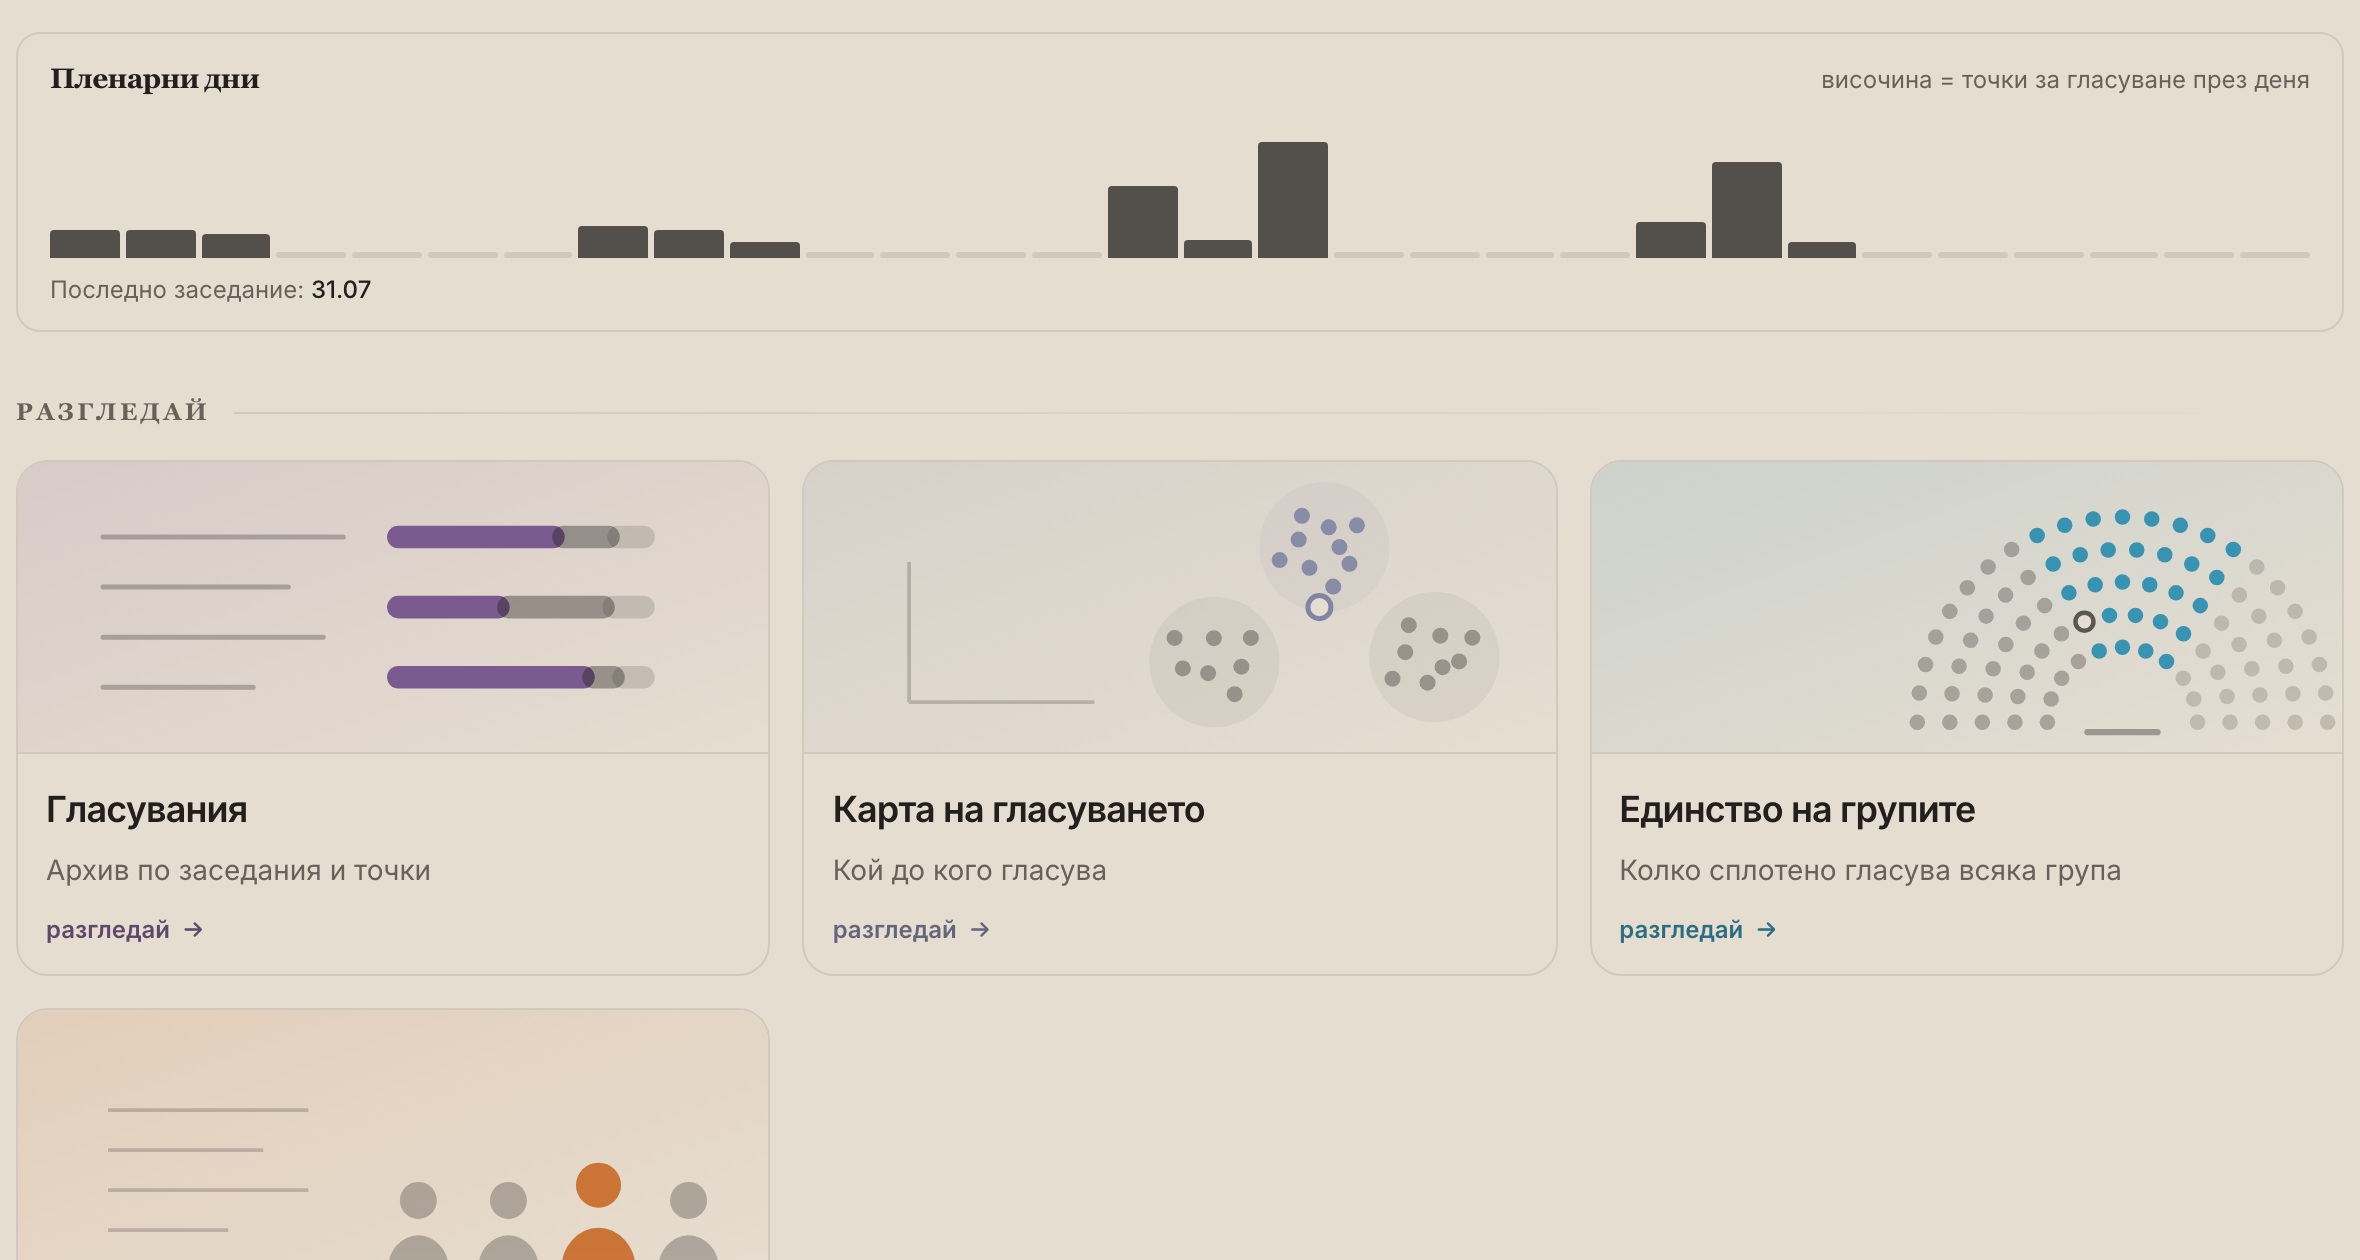
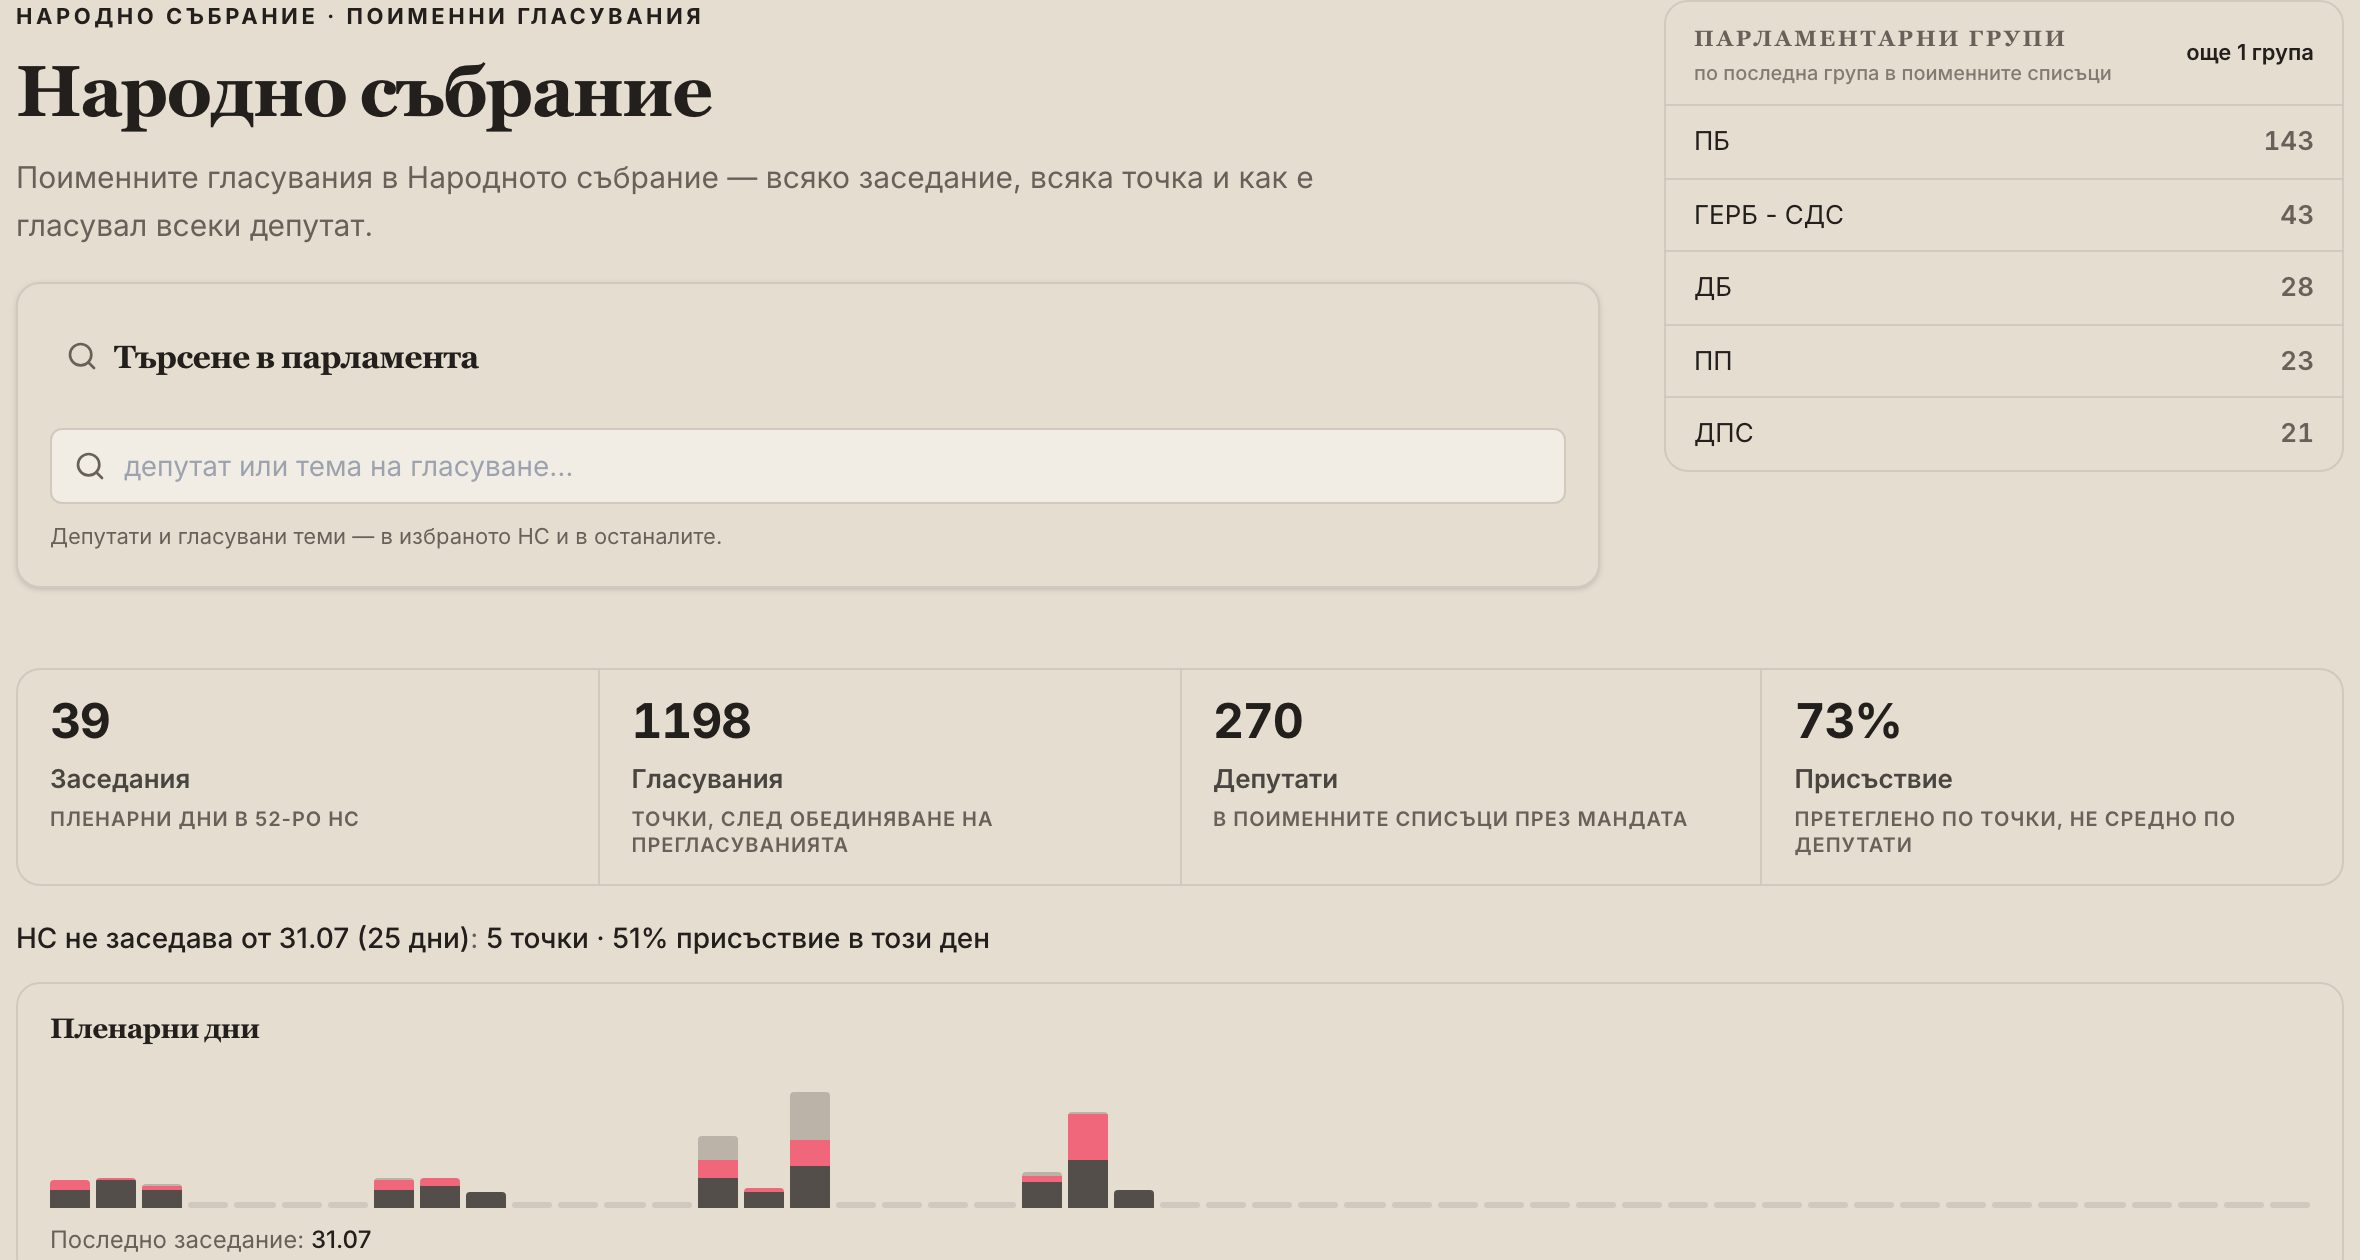
parliament step 3: the share card frames the head, and a gate keeps it there

diff --git a/scripts/og/capture-screens.ts b/scripts/og/capture-screens.ts
@@ -294,15 +294,18 @@ const captures: Capture[] = [
   {
     slug: "parliament",
     routePath: "parliament",
-    // The rebuilt hub is a session strip over a tile grid. This entry used to wait
-    // for `div[title*="↔"]` — a cell inside the party-correlation heatmap tile,
-    // which the rebuild removes — so it would have waited the full 60 s and failed
-    // with nothing on the page to explain why. Anchor on the hub wrapper and
-    // left-align, mirroring the procurement entry, so the card leads with the strip
-    // and the first tiles rather than a crop of one card's interior.
-    waitFor: '[data-og="parliament-hub"] a',
-    anchor: '[data-og="parliament-hub"]',
-    leftAlign: true,
+    // ANCHOR ON THE HEAD, not the tile grid. §5.3's rule for a hub: the head IS the page's
+    // argument now — four labelled corpus figures, each with its basis, over a ranked list of
+    // the parliamentary groups. The previous anchor was `[data-og="parliament-hub"]`, the
+    // strip-and-grid wrapper, which framed a session strip and three tile fronts and showed
+    // no number at all; before that it waited on `div[title*="↔"]`, a heatmap cell the
+    // rebuild had already deleted, and would have timed out at 60 s.
+    //
+    // `waitFor` names the BAND rather than the head, because the head mounts immediately and
+    // its figures arrive with the blob — anchoring the wait on the container would shoot a
+    // skeleton, which is the failure `waitFor` exists to prevent.
+    waitFor: "[data-hub-head] .tabular-nums",
+    anchor: "[data-hub-head]",
     // Below `xl`, so the explore band is three full-width tiles rather than four
     // that the 1200px clip would cut through. §9.4 of the plan exists because the
     // previous card was a crop taken mid-card; reproducing that with a different
@@ -322,9 +325,18 @@ const captures: Capture[] = [
     // tells a reader what they are looking at, and two full rows of tiles with their headline
     // numbers still fit under it. Re-shoot and LOOK at the PNG if the band structure changes
     // again; a taller description would start pushing the second row out of the crop.
-    waitFor: '[data-og="procurement-hub"] a',
-    anchor: '[data-og="procurement-hub"]',
-    leftAlign: true,
+    // ANCHOR ON THE HEAD (§5.3). The tile-grid wrapper framed tile fronts and no figure —
+    // a share card for a data module that published no number. `waitFor` names the BAND, not
+    // the container: the head mounts immediately and its figures arrive with the blob, so
+    // waiting on the wrapper shoots a skeleton.
+    waitFor: "[data-hub-head] .tabular-nums",
+    anchor: "[data-hub-head]",
+    // BELOW 1280, so the content column fits inside the 1200 clip. A head spans the full
+    // column — identity plus the evidence aside — so at the default viewport a CENTRED clip
+    // shaves both edges: measured, /governance came back reading „правление" and „29,6 млрд."
+    // with the ranked list's figures cut off at „409 8". /parliament's entry already carried
+    // a narrow viewport, which is the only reason its card was whole.
+    viewport: { width: 1180, height: 1100 },
     settleMs: 3000,
   },
   {
@@ -1035,9 +1047,18 @@ const captures: Capture[] = [
     routePath: "governance",
     // /governance is now the Управление tile-hub — lead the card with the first
     // cluster of sub-hub tiles (like the sectors hub), not the old dashboard.
-    waitFor: '[data-og="governance-hub"] a',
-    anchor: '[data-og="governance-hub"]',
-    leftAlign: true,
+    // ANCHOR ON THE HEAD (§5.3). The tile-grid wrapper framed tile fronts and no figure —
+    // a share card for a data module that published no number. `waitFor` names the BAND, not
+    // the container: the head mounts immediately and its figures arrive with the blob, so
+    // waiting on the wrapper shoots a skeleton.
+    waitFor: "[data-hub-head] .tabular-nums",
+    anchor: "[data-hub-head]",
+    // BELOW 1280, so the content column fits inside the 1200 clip. A head spans the full
+    // column — identity plus the evidence aside — so at the default viewport a CENTRED clip
+    // shaves both edges: measured, /governance came back reading „правление" and „29,6 млрд."
+    // with the ranked list's figures cut off at „409 8". /parliament's entry already carried
+    // a narrow viewport, which is the only reason its card was whole.
+    viewport: { width: 1180, height: 1100 },
     settleMs: 2500,
   },
   {

diff --git a/scripts/prerender/ogAndSitemapCoverage.test.ts b/scripts/prerender/ogAndSitemapCoverage.test.ts
@@ -26,6 +26,7 @@
 
 import { describe, expect, it } from "vitest";
 import fs from "node:fs";
+import { execSync } from "node:child_process";
 import path from "node:path";
 import { fileURLToPath } from "node:url";
 import { prerenderRoutes } from "./routes";
@@ -797,5 +798,80 @@ describe("every prerendered page is in the committed sitemap", () => {
     // /data-changes 301s onto /data/updates. If it ever appeared in the sitemap
     // the two clauses above would both pass while the artifact was wrong.
     expect(sitemapLocs.has("/data-changes")).toBe(false);
+  });
+});
+
+// ─── a hub's share card frames its HEAD ──────────────────────────────────────
+//
+// §5.3's rule for a hub changed when `HubHead` arrived. The old advice — "not the KPI row and
+// not the page header" — was right about a header that carried a centred muted title and
+// nothing else. A head is the opposite: labelled corpus figures with their bases, over a
+// ranked list. It IS the page's argument in one frame, and it is what a reader on Facebook
+// sees before deciding whether to click.
+//
+// Measured 2026-08-25: /parliament's card was captured on 14 August, anchored on the tile-grid
+// wrapper, and showed a session strip and three tile fronts with NO NUMBER ON IT — a share
+// card for a roll-call module that published no figure. Nothing failed, because
+// `tests/seo.spec.ts` only asserts the og:image URL is absolute.
+describe("a hub's og capture anchors on its head", () => {
+  const CAPTURES = read("scripts/og/capture-screens.ts");
+
+  /** Hubs whose card does NOT yet frame the head, with the reason. Each is a real debt, not a
+   *  decision — they are listed so the gate stays green while naming what is owed, and so the
+   *  list shrinks rather than the rule. */
+  const NOT_YET: Record<string, string> = {
+    funds:
+      "produced by scripts/og/screenshot_funds.ts, which clips {0,0} and hides no chrome — " +
+      "needs moving into capture-screens.ts before it can anchor on anything",
+  };
+
+  it("every hub with a HubHead frames it, or is named as owing one", () => {
+    // The hubs are DERIVED — a screen that renders HubHead is a hub, so a new one joins this
+    // gate the day it is written rather than when somebody remembers to list it.
+    const screens = execSync("grep -rl 'HubHead' src/screens --include=*.tsx", {
+      encoding: "utf8",
+    })
+      .trim()
+      .split("\n")
+      .filter(Boolean);
+    expect(screens.length, "no screen renders HubHead").toBeGreaterThan(2);
+
+    // slug ← the capture entry whose routePath is the hub's own path.
+    const anchored = [...CAPTURES.matchAll(/slug:\s*"([^"]+)"/g)].map(
+      (m) => m[1],
+    );
+    expect(anchored.length, "no capture slugs found").toBeGreaterThan(10);
+
+    const offenders: string[] = [];
+    for (const slug of ["parliament", "procurement", ...Object.keys(NOT_YET)]) {
+      if (NOT_YET[slug]) continue;
+      const at = CAPTURES.indexOf(`slug: "${slug}"`);
+      if (at === -1) {
+        offenders.push(`${slug}: no capture entry`);
+        continue;
+      }
+      // The entry runs to the next `slug:` or the end.
+      const next = CAPTURES.indexOf('slug: "', at + 10);
+      const entry = CAPTURES.slice(at, next === -1 ? undefined : next);
+      if (!/anchor:\s*"\[data-hub-head\]"/.test(entry))
+        offenders.push(`${slug}: anchors on something other than the head`);
+    }
+    expect(
+      offenders,
+      `hub cards not framing their head: ${offenders.join("; ")}`,
+    ).toEqual([]);
+  });
+
+  it("the exemption list names only real hubs, so it cannot go stale", () => {
+    for (const slug of Object.keys(NOT_YET)) {
+      const screen = `src/screens/${slug === "governance" ? "GovernanceScreen" : "FundsScreen"}.tsx`;
+      expect(
+        read(screen).includes("HubHead"),
+        `${slug} is exempted but no longer renders a HubHead — drop the entry`,
+      ).toBe(true);
+      expect(NOT_YET[slug].length, `${slug} needs a reason`).toBeGreaterThan(
+        20,
+      );
+    }
   });
 });
